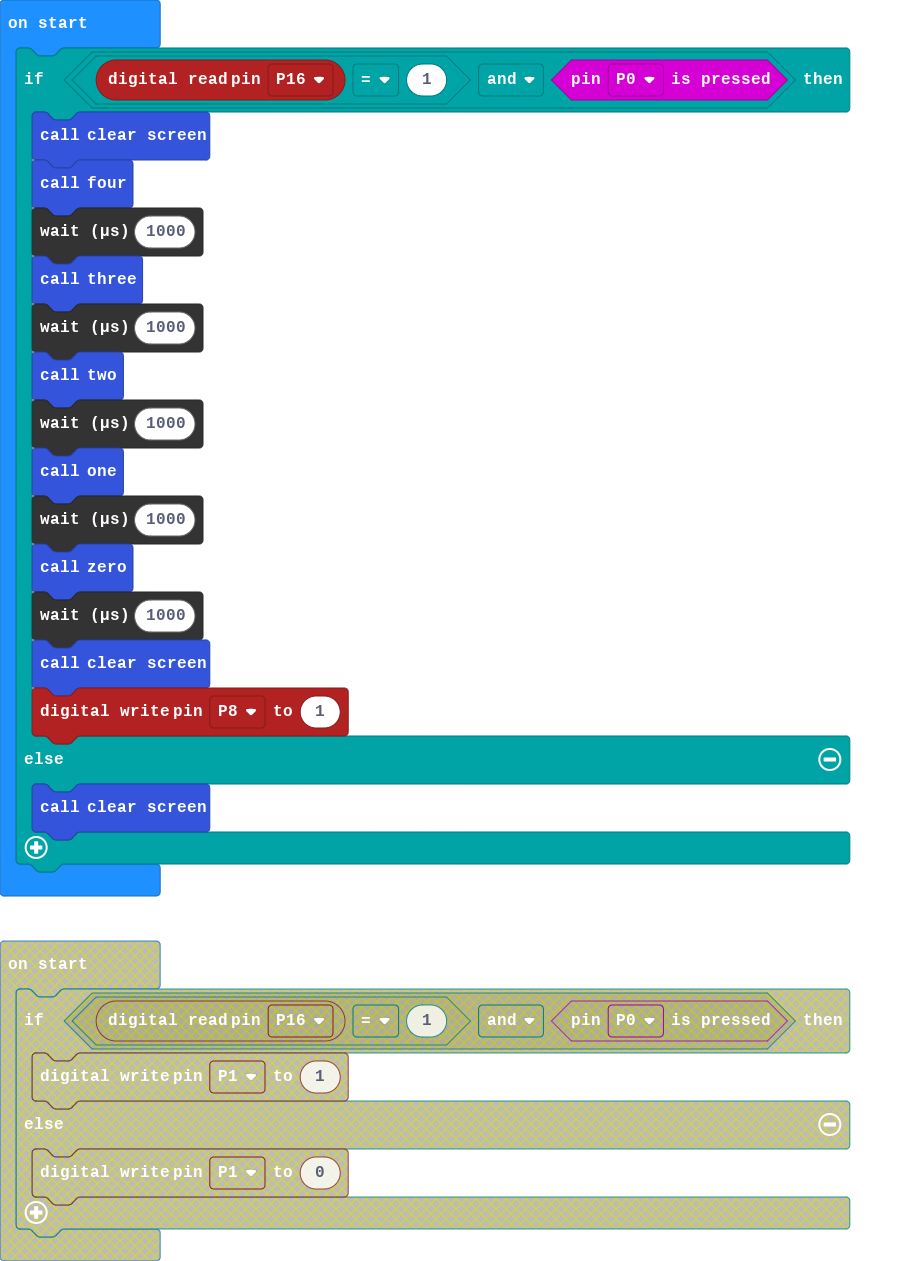
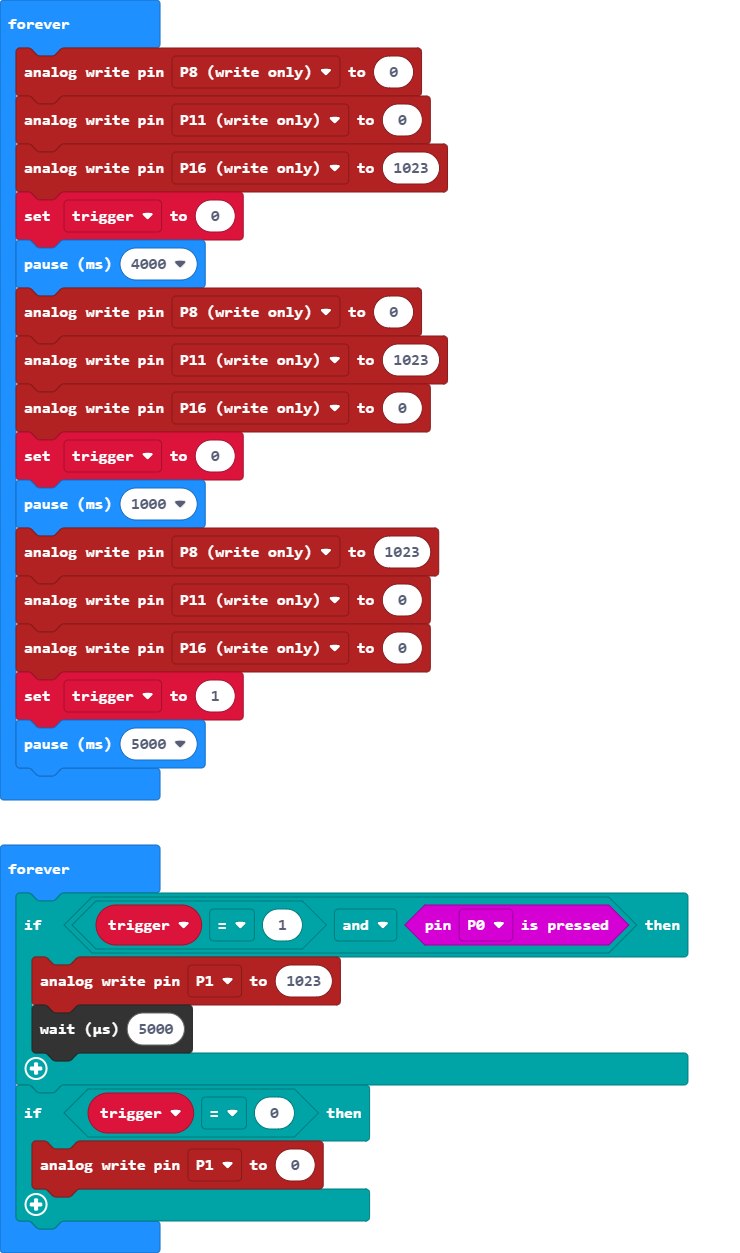
Update main.blocks, main.ts

diff --git a/main.ts b/main.ts
@@ -1,3 +1,4 @@
+let trigger = 0
 function zero () {
     pins.digitalWritePin(DigitalPin.P1, 1)
     pins.digitalWritePin(DigitalPin.P2, 1)
@@ -46,34 +47,32 @@ function two () {
     pins.digitalWritePin(DigitalPin.P14, 1)
     pins.digitalWritePin(DigitalPin.P15, 1)
 }
-if (pins.digitalReadPin(DigitalPin.P16) == 1 && input.pinIsPressed(TouchPin.P0)) {
-    clear_screen()
-    four()
-    control.waitMicros(1000)
-    three()
-    control.waitMicros(1000)
-    two()
-    control.waitMicros(1000)
-    one()
-    control.waitMicros(1000)
-    zero()
-    control.waitMicros(1000)
-    clear_screen()
-    pins.digitalWritePin(DigitalPin.P8, 1)
-} else {
-    clear_screen()
-}
 basic.forever(function () {
-    pins.digitalWritePin(DigitalPin.P8, 1)
-    pins.digitalWritePin(DigitalPin.P11, 0)
-    pins.digitalWritePin(DigitalPin.P16, 0)
+    pins.analogWritePin(AnalogPin.P8, 0)
+    pins.analogWritePin(AnalogPin.P11, 0)
+    pins.analogWritePin(AnalogPin.P16, 1023)
+    trigger = 0
     basic.pause(4000)
-    pins.digitalWritePin(DigitalPin.P8, 0)
-    pins.digitalWritePin(DigitalPin.P11, 1)
-    pins.digitalWritePin(DigitalPin.P16, 0)
+    pins.analogWritePin(AnalogPin.P8, 0)
+    pins.analogWritePin(AnalogPin.P11, 1023)
+    pins.analogWritePin(AnalogPin.P16, 0)
+    trigger = 0
     basic.pause(1000)
-    pins.digitalWritePin(DigitalPin.P8, 0)
-    pins.digitalWritePin(DigitalPin.P11, 0)
-    pins.digitalWritePin(DigitalPin.P16, 1)
+    pins.analogWritePin(AnalogPin.P8, 1023)
+    pins.analogWritePin(AnalogPin.P11, 0)
+    pins.analogWritePin(AnalogPin.P16, 0)
+    trigger = 1
     basic.pause(5000)
+})
+basic.forever(function () {
+	
+})
+basic.forever(function () {
+    if (trigger == 1 && input.pinIsPressed(TouchPin.P0)) {
+        pins.analogWritePin(AnalogPin.P1, 1023)
+        control.waitMicros(5000)
+    }
+    if (trigger == 0) {
+        pins.analogWritePin(AnalogPin.P1, 0)
+    }
 })
